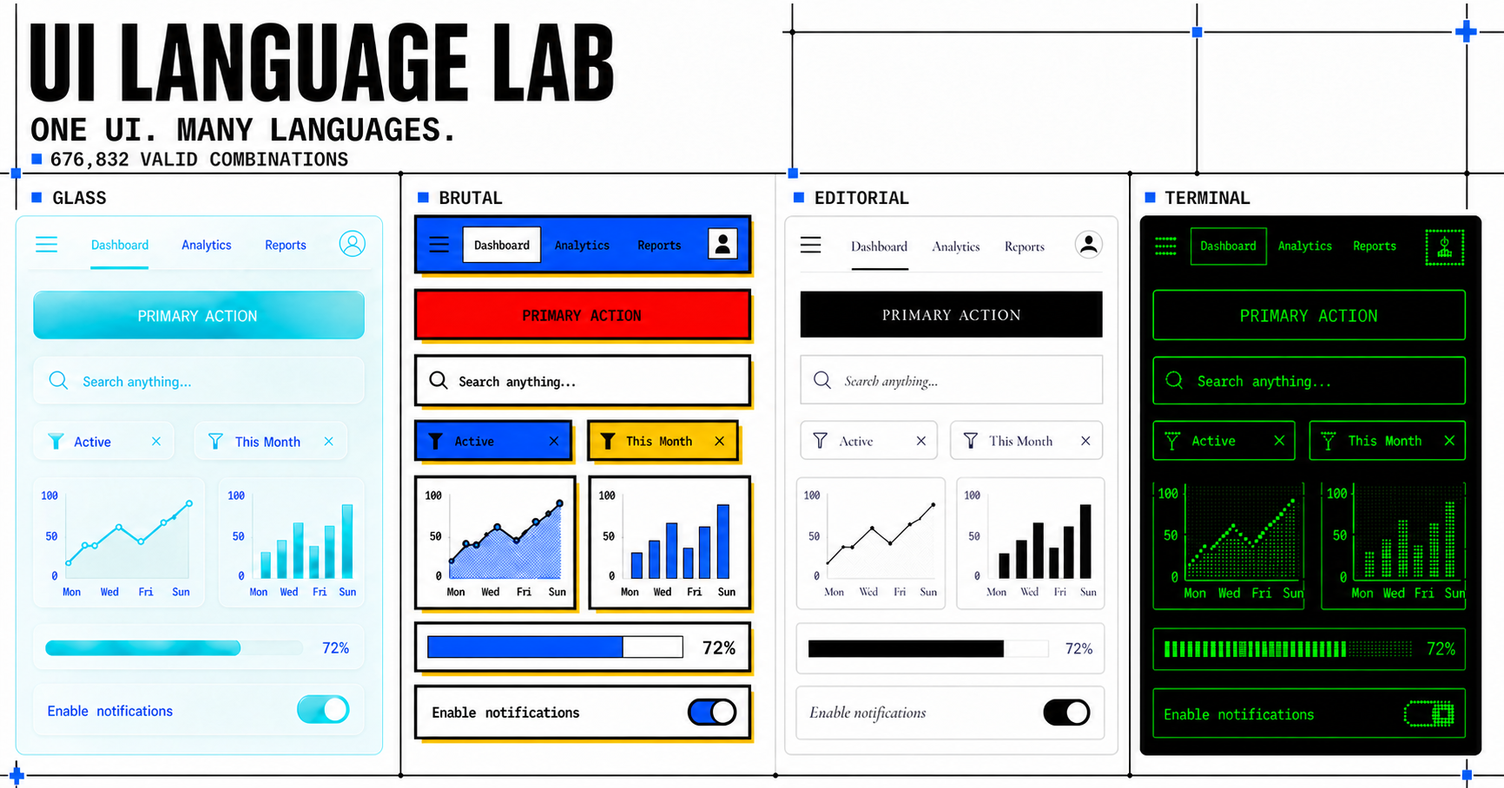
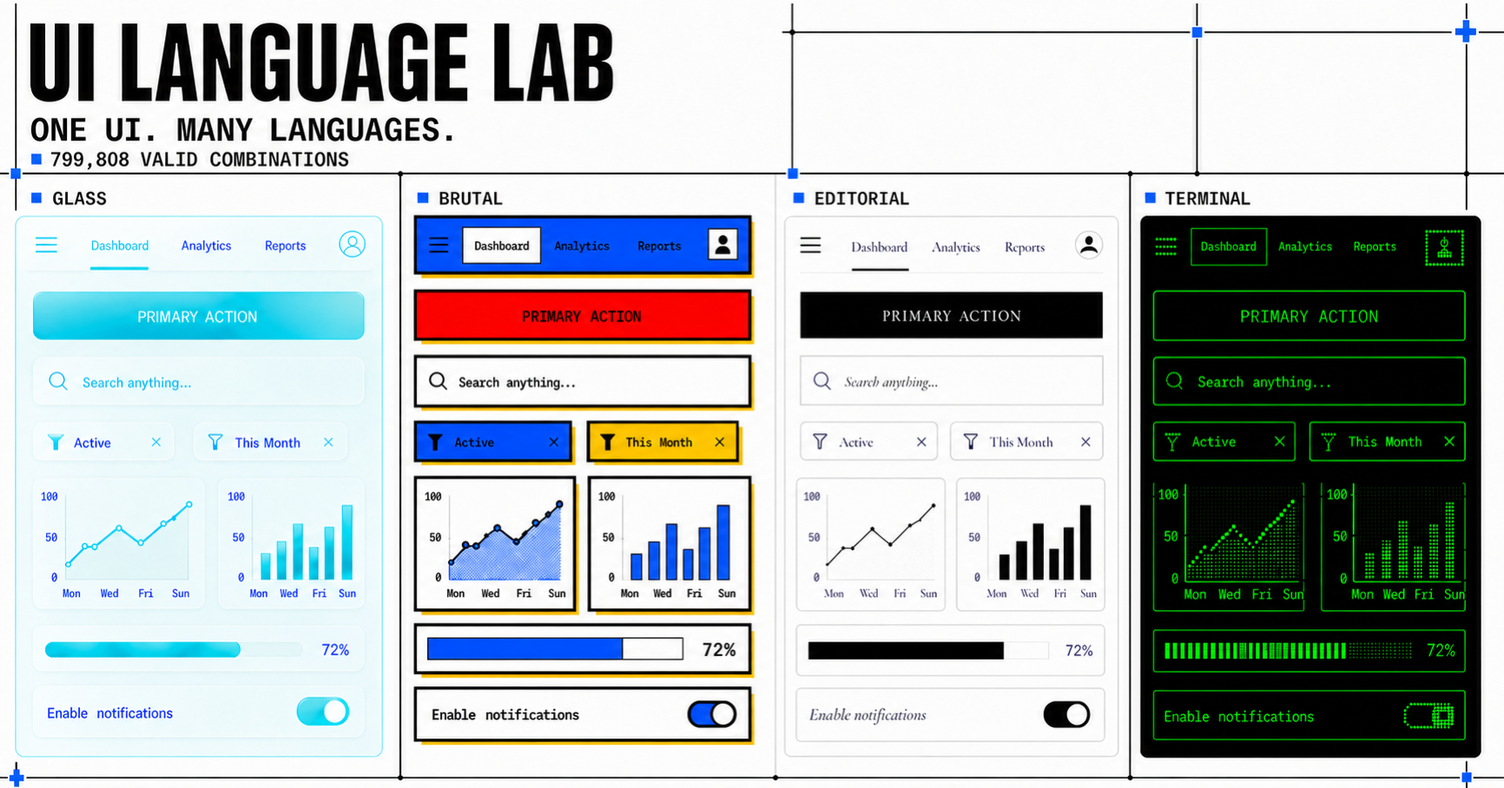
Improve floating controls and rail palettes

diff --git a/app/style-lab.css b/app/style-lab.css
@@ -55,16 +55,19 @@
 .site-header nav a svg { width:11px;height:11px; }
 .site-header nav a:hover { text-decoration: underline; text-underline-offset: 4px; }
 .language-control { position:relative; }
-.floating-language,.floating-utilities { position:fixed;bottom:16px;z-index:130;padding:6px;border:1px solid rgba(20,20,17,.21);border-radius:999px;background:rgba(250,249,245,.91);box-shadow:0 14px 38px rgba(24,24,20,.14),inset 0 1px rgba(255,255,255,.9);backdrop-filter:blur(22px) saturate(1.15); }
-.floating-language { right:16px; }
-.floating-utilities { right:92px;display:flex;align-items:center;gap:4px; }
+.floating-language,.floating-utilities { z-index:130;padding:6px;border:1px solid rgba(20,20,17,.21);background:rgba(250,249,245,.91);box-shadow:0 14px 38px rgba(24,24,20,.14),inset 0 1px rgba(255,255,255,.9);backdrop-filter:blur(22px) saturate(1.15); }
+.floating-language { position:fixed;right:16px;bottom:16px;border-radius:999px; }
+.floating-utilities { position:relative;display:grid;grid-template-columns:repeat(3,minmax(0,1fr));gap:4px;width:100%;margin-top:8px;border-radius:15px;pointer-events:auto; }
 .share-control { position:relative;display:grid; }
 .language-toggle { display:inline-flex;align-items:center;gap:7px;min-height:36px;padding:0 10px;border:1px solid #aaa79f;border-radius:999px;background:transparent;cursor:pointer; }
 .language-toggle:hover { color:white;border-color:#171714;background:#171714; }
 .language-toggle span { display:grid;place-items:center;line-height:1; }.language-toggle span svg { width:15px;height:15px; }.language-toggle b { font-size:9px;letter-spacing:.08em; }
-.utility-toggle { display:grid;width:36px;height:36px;place-items:center;padding:0;border:1px solid #aaa79f;border-radius:50%;background:transparent;cursor:pointer; }
+.utility-toggle { display:flex;width:100%;height:38px;align-items:center;justify-content:center;gap:6px;padding:0 7px;border:1px solid #aaa79f;border-radius:10px;background:rgba(255,255,255,.42);cursor:pointer; }
 .utility-toggle:hover,.utility-toggle[aria-expanded="true"] { color:white;border-color:#171714;background:#171714; }
 .utility-toggle svg { width:15px;height:15px; }
+.utility-toggle b { overflow:hidden;font-size:8px;letter-spacing:.035em;text-overflow:ellipsis;white-space:nowrap; }
+.page-jump-toggle { color:#fff;border-color:var(--lab-blue);background:var(--lab-blue); }
+.page-jump-toggle:hover { border-color:#1737a4;background:#1737a4; }
 .language-menu { position:absolute;right:0;bottom:calc(100% + 10px);z-index:150;display:grid;width:270px;padding:9px;border:1px solid rgba(20,20,17,.2);border-radius:15px;background:rgba(250,249,245,.98);box-shadow:0 18px 50px rgba(20,20,17,.18);backdrop-filter:blur(22px); }
 .language-menu>span { padding:8px 9px 11px;color:#77746c;font:8px ui-monospace,monospace;letter-spacing:.1em;text-transform:uppercase; }
 .language-menu>button { display:grid;grid-template-columns:36px 1fr auto;align-items:center;gap:9px;min-height:48px;padding:7px 9px;border:0;border-radius:10px;background:transparent;text-align:left;cursor:pointer; }
@@ -585,12 +588,15 @@
 
 .live-site[data-palette="mono"], .preset-mini[data-palette="mono"] { --site-bg:#e7e6e1;--site-surface:rgba(255,255,252,.84);--site-solid:#fafaf7;--site-ink:#151515;--site-muted:#6b6b66;--site-accent:#282828;--site-accent-2:#c8c8c0;--site-accent-3:#7a7a74;--site-line:rgba(0,0,0,.2); }
 .live-site[data-palette="pureWhite"], .preset-mini[data-palette="pureWhite"] { --site-bg:#ffffff;--site-surface:#ffffff;--site-solid:#ffffff;--site-ink:#111113;--site-muted:#71717a;--site-accent:#18181b;--site-accent-2:#f4f4f5;--site-accent-3:#d4d4d8;--site-line:rgba(17,17,19,.14); }
-.live-site[data-palette="enterpriseNavy"], .preset-mini[data-palette="enterpriseNavy"] { --site-bg:#f7f8fb;--site-surface:#f8f9fc;--site-solid:#ffffff;--site-ink:#16223b;--site-muted:#778097;--site-accent:#16294a;--site-accent-2:#e3e8f0;--site-accent-3:#60789b;--site-line:rgba(22,41,74,.15); }
-.live-site[data-palette="enterpriseNavy"] .sample-nav { color:#f7f9fc;border-color:rgba(255,255,255,.14);background:#16294a; }
-.live-site[data-palette="enterpriseNavy"] .sample-nav-cta { color:#16294a;background:#ffffff; }
-.live-site[data-palette="enterpriseNavy"] .sample-nav nav a { border-color:rgba(255,255,255,.18); }
-.preset-mini[data-palette="enterpriseNavy"] .mini-nav { margin:-4px -4px 0;padding:4px 8px;border:0;background:#16294a; }
-.preset-mini[data-palette="enterpriseNavy"] .mini-nav i,.preset-mini[data-palette="enterpriseNavy"] .mini-nav b { background:#ffffff; }
+.live-site[data-palette="enterpriseNavy"], .preset-mini[data-palette="enterpriseNavy"] { --site-rail:#16294a;--site-bg:#f7f8fb;--site-surface:#f8f9fc;--site-solid:#ffffff;--site-ink:#16223b;--site-muted:#778097;--site-accent:#16294a;--site-accent-2:#e3e8f0;--site-accent-3:#60789b;--site-line:rgba(22,41,74,.15); }
+.live-site[data-palette="enterpriseEvergreen"], .preset-mini[data-palette="enterpriseEvergreen"] { --site-rail:#193324;--site-bg:#f7faf8;--site-surface:#f9fbfa;--site-solid:#ffffff;--site-ink:#1a2f24;--site-muted:#64766c;--site-accent:#2e8367;--site-accent-2:#dbebde;--site-accent-3:#86b98e;--site-line:rgba(25,51,36,.15); }
+.live-site[data-palette="enterpriseBurgundy"], .preset-mini[data-palette="enterpriseBurgundy"] { --site-rail:#402731;--site-bg:#fbf8f9;--site-surface:#fcfafb;--site-solid:#ffffff;--site-ink:#321f27;--site-muted:#806b73;--site-accent:#8b4566;--site-accent-2:#f6e1e8;--site-accent-3:#e895b3;--site-line:rgba(64,39,49,.15); }
+.live-site[data-palette="enterpriseGraphite"], .preset-mini[data-palette="enterpriseGraphite"] { --site-rail:#2d2e2f;--site-bg:#f7f9fa;--site-surface:#fbfcfd;--site-solid:#ffffff;--site-ink:#1c1d1f;--site-muted:#71767a;--site-accent:#3d4551;--site-accent-2:#dfe1e2;--site-accent-3:#71767a;--site-line:rgba(45,46,47,.16); }
+.live-site:is([data-palette="enterpriseNavy"],[data-palette="enterpriseEvergreen"],[data-palette="enterpriseBurgundy"],[data-palette="enterpriseGraphite"]) .sample-nav { color:#fff;border-color:rgba(255,255,255,.14);background:var(--site-rail); }
+.live-site:is([data-palette="enterpriseNavy"],[data-palette="enterpriseEvergreen"],[data-palette="enterpriseBurgundy"],[data-palette="enterpriseGraphite"]) .sample-nav-cta { color:var(--site-rail);background:#fff; }
+.live-site:is([data-palette="enterpriseNavy"],[data-palette="enterpriseEvergreen"],[data-palette="enterpriseBurgundy"],[data-palette="enterpriseGraphite"]) .sample-nav nav a { border-color:rgba(255,255,255,.18); }
+.preset-mini:is([data-palette="enterpriseNavy"],[data-palette="enterpriseEvergreen"],[data-palette="enterpriseBurgundy"],[data-palette="enterpriseGraphite"]) .mini-nav { margin:-4px -4px 0;padding:4px 8px;border:0;background:var(--site-rail); }
+.preset-mini:is([data-palette="enterpriseNavy"],[data-palette="enterpriseEvergreen"],[data-palette="enterpriseBurgundy"],[data-palette="enterpriseGraphite"]) .mini-nav i,.preset-mini:is([data-palette="enterpriseNavy"],[data-palette="enterpriseEvergreen"],[data-palette="enterpriseBurgundy"],[data-palette="enterpriseGraphite"]) .mini-nav b { background:#fff; }
 .live-site[data-palette="primary"], .preset-mini[data-palette="primary"] { --site-bg:#fff2cc;--site-surface:#fffaf0;--site-solid:#fffaf0;--site-ink:#090909;--site-muted:#625d52;--site-accent:#064ff1;--site-accent-2:#ffd400;--site-accent-3:#ff5147;--site-line:rgba(0,0,0,.22); }
 .live-site[data-palette="cobalt"], .preset-mini[data-palette="cobalt"] { --site-bg:#e2e8f5;--site-surface:rgba(249,251,255,.8);--site-solid:#f7f9ff;--site-ink:#131d3d;--site-muted:#66708d;--site-accent:#315cff;--site-accent-2:#b8c7ff;--site-accent-3:#9a6cff;--site-line:rgba(24,44,103,.17); }
 .live-site[data-palette="citrus"], .preset-mini[data-palette="citrus"] { --site-bg:#f1f7ce;--site-surface:rgba(252,255,236,.84);--site-solid:#fbffef;--site-ink:#24300e;--site-muted:#6b7554;--site-accent:#72b900;--site-accent-2:#f4df32;--site-accent-3:#ff982f;--site-line:rgba(48,73,10,.18); }
@@ -991,7 +997,10 @@
   .intro { grid-template-columns:1fr; }.intro h1 { align-self:center; }.intro-side { display:flex;justify-content:space-between;gap:40px;margin-top:60px;padding-left:0; }.intro-side>p { margin:0; }
   .mixer-anchor { top:auto;right:10px;bottom:10px;left:10px;width:auto;height:auto;padding:0;transform:none; }.floating-mixer { flex-direction:row;min-height:68px;border-radius:15px; }.axis-controls { display:flex;overflow-x:auto;scrollbar-width:none; }.axis-controls>button { flex:0 0 122px;border-right:1px solid rgba(20,20,17,.1);border-bottom:0; }.mixer-popover { top:auto;right:0;bottom:calc(100% + 8px);left:0;width:auto; }
   .floating-language { right:10px;bottom:86px; }
-  .floating-utilities { right:88px;bottom:86px; }
+  .floating-utilities { position:absolute;right:70px;bottom:calc(100% + 8px);display:flex;width:auto;margin:0;border-radius:999px; }
+  .utility-toggle { width:36px;padding:0;border-radius:50%;background:transparent; }
+  .utility-toggle b { display:none; }
+  .page-jump-toggle { background:var(--lab-blue); }
   .popover-options { grid-template-columns:repeat(2,minmax(0,1fr)); }
   .live-site[data-nav="left"] { display:block; }
   .live-site[data-nav="left"]>.sample-nav { position:relative;top:auto;display:grid;grid-template-columns:1fr auto;align-items:center;width:calc(100% - clamp(30px,5vw,90px));height:auto;min-height:78px;margin:clamp(28px,3.5vw,58px) auto 0;padding:0 18px 0 22px;border:var(--site-border);border-radius:var(--site-radius); }
@@ -1015,7 +1024,7 @@
   .site-header { min-height:64px;padding-inline:17px; }.site-header nav { display:none; }.wordmark b { font-size:10px; }
   .intro { min-height:560px;padding:32px 18px 72px; }.intro h1 { margin-top:52px;font-size:clamp(45px,13vw,70px); }.intro-side { display:block;margin-top:38px; }.intro-side>p { margin-bottom:22px;font-size:14px; }.explore-cta { margin-bottom:24px; }
   .mixer-anchor { top:auto;right:7px;bottom:7px;left:7px;height:auto; }.floating-mixer { min-height:61px;border-radius:13px; }.axis-controls>button { flex-basis:105px;padding:9px 24px 9px 10px; }.axis-controls b { font-size:9px; }
-  .floating-language { right:7px;bottom:76px;padding:5px; }.floating-utilities { right:82px;bottom:76px;padding:5px; }.language-menu { width:min(270px,calc(100vw - 14px)); }
+  .floating-language { right:7px;bottom:76px;padding:5px; }.floating-utilities { right:66px;bottom:calc(100% + 8px);padding:5px; }.language-menu { width:min(270px,calc(100vw - 14px)); }
   .mixer-popover { top:auto;bottom:calc(100% + 6px);padding:12px;border-radius:13px; }.share-popover { right:-75px;bottom:calc(100% + 8px);width:calc(100vw - 14px);padding:12px;border-radius:13px; }.popover-options { grid-template-columns:1fr; }.popover-options>button { min-height:58px; }.mixer-popover>header small { display:none; }
   .canvas-label { width:calc(100% - 28px);margin-bottom:10px; }.canvas-label b { display:none; }
   .sample-nav,.sample-main { width:calc(100% - 28px); }.sample-nav { min-height:62px;margin-top:18px;padding:0 10px 0 13px; }.sample-brand b { font-size:9px; }.sample-mark { width:27px;height:27px; }.sample-nav-cta { min-height:39px;padding:0 11px;font-size:8px; }.sample-nav-cta span { margin-left:6px; }

diff --git a/app/StyleLab.tsx b/app/StyleLab.tsx
@@ -74,6 +74,12 @@ const labCopy = {
     mixer: "Design combination mixer",
     random: "Create a random compatible combination",
     share: "Share the current combination",
+    randomShort: "Random",
+    shareShort: "Share",
+    presetsJump: "Presets",
+    presetsJumpLabel: "Jump to curated presets",
+    canvasJump: "Canvas",
+    canvasJumpLabel: "Return to the live canvas",
     shareTitle: "Choose a share view",
     shareIntro: "Send the full lab for exploration or a clean reference page for agents and design handoff.",
     labLink: "Copy lab link",
@@ -95,7 +101,7 @@ const labCopy = {
     incompatible: (name: string) => `Not compatible with ${name}`,
     unavailable: (name: string) => `This combination is unavailable for ${name}.`,
     canvas: "FULL-PAGE LIVE CANVAS",
-    presetKicker: "CURATED STARTING POINTS · 30",
+    presetKicker: "CURATED STARTING POINTS",
     presetTitle: ["Switch the whole page", "in one move."],
     presetIntro: "Every preset applies a coherent visual system to the same Field Notes content. Start here, then adjust one layer at a time in the floating mixer.",
     filters: "Preset filters",
@@ -117,6 +123,12 @@ const labCopy = {
     mixer: "디자인 조합 믹서",
     random: "호환되는 무작위 조합 만들기",
     share: "현재 조합 공유",
+    randomShort: "무작위",
+    shareShort: "공유",
+    presetsJump: "프리셋",
+    presetsJumpLabel: "추천 프리셋으로 이동",
+    canvasJump: "캔버스",
+    canvasJumpLabel: "라이브 캔버스로 돌아가기",
     shareTitle: "공유 화면 선택",
     shareIntro: "직접 탐색할 수 있는 전체 실험실 또는 에이전트와 디자인 전달에 적합한 레퍼런스 화면을 공유하세요.",
     labLink: "실험실 링크 복사",
@@ -138,7 +150,7 @@ const labCopy = {
     incompatible: (name: string) => `${name}과 호환되지 않음`,
     unavailable: (name: string) => `${name}에서는 사용할 수 없는 조합입니다.`,
     canvas: "전체 페이지 라이브 캔버스",
-    presetKicker: "추천 시작점 · 30",
+    presetKicker: "추천 시작점",
     presetTitle: ["페이지의 분위기를", "한 번에 전환하세요."],
     presetIntro: "각 프리셋은 같은 Field Notes 콘텐츠에 일관된 시각 시스템을 적용합니다. 선택한 뒤 플로팅 믹서에서 한 층씩 바꿔 보세요.",
     filters: "프리셋 필터",
@@ -364,7 +376,10 @@ const presetLabelsEn: Record<string, string> = {
   "paper-report": "A printed annual report",
   "clay-candy": "A soft, dimensional onboarding",
   "liquid-spatial": "Floating glass controls",
-  "corporate-clean": "A clear editorial landing page",
+  "corporate-clean": "An enterprise UI with a navy rail and white canvas",
+  "evergreen-workspace": "Calm operations with an evergreen rail and frost canvas",
+  "burgundy-workspace": "A warm service UI with a burgundy rail and pearl canvas",
+  "graphite-workspace": "Neutral data operations with a graphite rail and snow canvas",
   "vapor-grid": "A dreamy retro travel page",
   "organic-calm": "Wellness with quiet data",
   "citrus-split": "Energetic commerce",
@@ -617,6 +632,7 @@ export function StyleLab() {
   const [languageOpen, setLanguageOpen] = useState(false);
   const [notice, setNotice] = useState("");
   const [presetFilter, setPresetFilter] = useState("All");
+  const [presetSectionVisible, setPresetSectionVisible] = useState(false);
   const [ready, setReady] = useState(false);
   const mixerRef = useRef<HTMLElement>(null);
   const languageRef = useRef<HTMLDivElement>(null);
@@ -727,6 +743,17 @@ export function StyleLab() {
   }, [languageOpen]);
 
   useEffect(() => {
+    const presetSection = document.getElementById("presets");
+    if (!presetSection) return;
+    const observer = new IntersectionObserver(
+      ([entry]) => setPresetSectionVisible(entry.isIntersecting),
+      { rootMargin: "-18% 0px -62%", threshold: 0 },
+    );
+    observer.observe(presetSection);
+    return () => observer.disconnect();
+  }, []);
+
+  useEffect(() => {
     function onKeyDown(event: globalThis.KeyboardEvent) {
       const target = event.target as HTMLElement | null;
       if (event.key === "Escape") {
@@ -803,6 +830,13 @@ export function StyleLab() {
     document.getElementById("live-site")?.scrollIntoView({ behavior: "smooth" });
   }
 
+  function jumpBetweenCanvasAndPresets() {
+    const targetId = presetSectionVisible ? "live-site" : "presets";
+    document.getElementById(targetId)?.scrollIntoView({ behavior: selection.motion === "quiet" ? "auto" : "smooth" });
+    setActiveAxis(null);
+    setShareOpen(false);
+  }
+
   const aestheticName = language === "en" ? getOption("aesthetic", selection.aesthetic).en : getOption("aesthetic", selection.aesthetic).ko;
   const activeAxisIndex = activeAxis
     ? String(visibleAxisKeys.indexOf(activeAxis) + 1).padStart(2, "0")
@@ -832,23 +866,6 @@ export function StyleLab() {
             <button type="button" className={language === "ko" && copyMode === "mixed" ? "selected" : ""} onClick={() => chooseLanguage("ko", "mixed")}><b>한+</b><span>{t.koreanMixedMode}</span><em aria-hidden="true">{language === "ko" && copyMode === "mixed" ? <Check /> : <Circle />}</em></button>
           </div>
         )}
-      </div>
-
-      <div className="floating-utilities" ref={utilityRef}>
-        <button className="utility-toggle" type="button" onClick={randomize} aria-label={t.random} title={`${t.random} (R)`}><Shuffle aria-hidden="true" /></button>
-        <div className="share-control">
-          <button className="utility-toggle" type="button" onClick={() => { setActiveAxis(null); setShareOpen((current) => !current); }} aria-expanded={shareOpen} aria-label={t.share} title={t.share}><Share2 aria-hidden="true" /></button>
-          {shareOpen && (
-            <div className="share-popover" role="dialog" aria-label={t.shareTitle}>
-              <header><div><span aria-hidden="true"><Share2 /></span><b>{t.shareTitle}</b></div><button type="button" onClick={() => setShareOpen(false)} aria-label={t.close}><X aria-hidden="true" /></button></header>
-              <p>{t.shareIntro}</p>
-              <div>
-                <button type="button" onClick={() => share("lab")}><span><b>{t.labLink}</b><small>{t.labLinkNote}</small></span><em>LAB <ExternalLink aria-hidden="true" /></em></button>
-                <button type="button" onClick={() => share("reference")}><span><b>{t.referenceLink}</b><small>{t.referenceLinkNote}</small></span><em>REF <ExternalLink aria-hidden="true" /></em></button>
-              </div>
-            </div>
-          )}
-        </div>
       </div>
 
       <section className="intro" id="top">
@@ -891,13 +908,32 @@ export function StyleLab() {
           )}
 
         </section>
+        <div className="floating-utilities" ref={utilityRef} aria-label={language === "en" ? "Quick actions" : "빠른 동작"}>
+          <button className="utility-toggle page-jump-toggle" type="button" onClick={jumpBetweenCanvasAndPresets} aria-label={presetSectionVisible ? t.canvasJumpLabel : t.presetsJumpLabel} title={presetSectionVisible ? t.canvasJumpLabel : t.presetsJumpLabel}>
+            {presetSectionVisible ? <ArrowUp aria-hidden="true" /> : <ArrowDown aria-hidden="true" />}<b>{presetSectionVisible ? t.canvasJump : t.presetsJump}</b>
+          </button>
+          <button className="utility-toggle" type="button" onClick={randomize} aria-label={t.random} title={`${t.random} (R)`}><Shuffle aria-hidden="true" /><b>{t.randomShort}</b></button>
+          <div className="share-control">
+            <button className="utility-toggle" type="button" onClick={() => { setActiveAxis(null); setShareOpen((current) => !current); }} aria-expanded={shareOpen} aria-label={t.share} title={t.share}><Share2 aria-hidden="true" /><b>{t.shareShort}</b></button>
+            {shareOpen && (
+              <div className="share-popover" role="dialog" aria-label={t.shareTitle}>
+                <header><div><span aria-hidden="true"><Share2 /></span><b>{t.shareTitle}</b></div><button type="button" onClick={() => setShareOpen(false)} aria-label={t.close}><X aria-hidden="true" /></button></header>
+                <p>{t.shareIntro}</p>
+                <div>
+                  <button type="button" onClick={() => share("lab")}><span><b>{t.labLink}</b><small>{t.labLinkNote}</small></span><em>LAB <ExternalLink aria-hidden="true" /></em></button>
+                  <button type="button" onClick={() => share("reference")}><span><b>{t.referenceLink}</b><small>{t.referenceLinkNote}</small></span><em>REF <ExternalLink aria-hidden="true" /></em></button>
+                </div>
+              </div>
+            )}
+          </div>
+        </div>
       </div>
 
       <div className="canvas-label"><span>{t.canvas}</span><b>{visibleAxisKeys.map((axis) => language === "en" ? getOption(axis, selection[axis]).en : getOption(axis, selection[axis]).ko).join(" × ")}</b></div>
       <FieldNotesSite selection={selection} language={language} copyMode={copyMode} />
 
       <section className="preset-section" id="presets">
-        <header><div><span>{t.presetKicker}</span><h2>{t.presetTitle[0]}<br />{t.presetTitle[1]}</h2></div><p>{t.presetIntro}</p></header>
+        <header><div><span>{t.presetKicker} · {presets.length}</span><h2>{t.presetTitle[0]}<br />{t.presetTitle[1]}</h2></div><p>{t.presetIntro}</p></header>
         <div className="preset-filters" aria-label={t.filters}>{filters.map((filter) => <button className={presetFilter === filter ? "active" : ""} type="button" key={filter} onClick={() => setPresetFilter(filter)}>{filter === "All" ? t.all : filter}</button>)}</div>
         <div className="preset-grid">
           {visiblePresets.map((preset, index) => (

diff --git a/app/style-data.ts b/app/style-data.ts
@@ -113,6 +113,9 @@ export const axes: Record<AxisKey, Option[]> = {
     { id: "mono", ko: "모노", en: "Monochrome", note: "black, white, neutral grey" },
     { id: "pureWhite", ko: "퓨어 화이트", en: "Pure White", note: "white surface와 near-black typography" },
     { id: "enterpriseNavy", ko: "엔터프라이즈 네이비", en: "Enterprise Navy", note: "navy navigation과 porcelain-white canvas의 강한 대비" },
+    { id: "enterpriseEvergreen", ko: "엔터프라이즈 에버그린", en: "Enterprise Evergreen", note: "evergreen navigation과 frost-white canvas의 차분한 대비" },
+    { id: "enterpriseBurgundy", ko: "엔터프라이즈 버건디", en: "Enterprise Burgundy", note: "burgundy navigation과 pearl-white canvas의 따뜻한 대비" },
+    { id: "enterpriseGraphite", ko: "엔터프라이즈 그래파이트", en: "Enterprise Graphite", note: "graphite navigation과 snow-white canvas의 중립적 대비" },
     { id: "primary", ko: "프라이머리", en: "Primary", note: "red, blue, yellow" },
     { id: "citrus", ko: "시트러스", en: "Citrus", note: "lime, tangerine, yellow" },
     { id: "candy", ko: "캔디", en: "Candy", note: "pink, lavender, cyan" },
@@ -198,7 +201,7 @@ export const aestheticRules: Record<string, AestheticRule> = {
       type: ["grotesk", "humanist", "serif", "mono"],
       koType: ["plex", "pretendard", "suit", "noto", "spoqa", "nanum", "gowun", "jua", "coding"],
       fontMode: ["split", "koUnified"],
-      palette: ["cobalt", "mono", "pureWhite", "enterpriseNavy", "noir", "forest", "aurora", "aqua", "bentoPastel", "nordic", "materialDynamic", "fluent"],
+      palette: ["cobalt", "mono", "pureWhite", "enterpriseNavy", "enterpriseEvergreen", "enterpriseBurgundy", "enterpriseGraphite", "noir", "forest", "aurora", "aqua", "bentoPastel", "nordic", "materialDynamic", "fluent"],
       motion: ["quiet", "subtle"],
     },
   },
@@ -408,7 +411,7 @@ export const aestheticRules: Record<string, AestheticRule> = {
       type: ["grotesk", "humanist", "rounded"],
       koType: ["plex", "pretendard", "suit", "noto", "spoqa", "jua"],
       fontMode: ["split", "koUnified"],
-      palette: ["materialDynamic", "pureWhite", "enterpriseNavy", "cobalt", "candy", "forest", "aqua"],
+      palette: ["materialDynamic", "pureWhite", "enterpriseNavy", "enterpriseEvergreen", "enterpriseBurgundy", "enterpriseGraphite", "cobalt", "candy", "forest", "aqua"],
       motion: ["subtle", "kinetic"],
     },
   },
@@ -436,7 +439,7 @@ export const aestheticRules: Record<string, AestheticRule> = {
       type: ["grotesk", "humanist"],
       koType: ["plex", "pretendard", "suit", "noto", "spoqa", "nanum"],
       fontMode: ["split", "koUnified"],
-      palette: ["fluent", "pureWhite", "enterpriseNavy", "cobalt", "mono"],
+      palette: ["fluent", "pureWhite", "enterpriseNavy", "enterpriseEvergreen", "enterpriseBurgundy", "enterpriseGraphite", "cobalt", "mono"],
       motion: ["quiet", "subtle"],
     },
   },
@@ -464,7 +467,7 @@ export const aestheticRules: Record<string, AestheticRule> = {
       type: ["grotesk", "mono"],
       koType: ["plex", "pretendard", "suit", "noto", "coding"],
       fontMode: ["split", "koUnified"],
-      palette: ["carbon", "pureWhite", "enterpriseNavy", "mono"],
+      palette: ["carbon", "pureWhite", "enterpriseNavy", "enterpriseEvergreen", "enterpriseBurgundy", "enterpriseGraphite", "mono"],
       motion: ["quiet", "subtle"],
     },
   },
@@ -492,7 +495,7 @@ export const aestheticRules: Record<string, AestheticRule> = {
       type: ["grotesk", "mono"],
       koType: ["plex", "pretendard", "suit", "noto", "spoqa", "nanum", "coding"],
       fontMode: ["split", "koUnified"],
-      palette: ["pureWhite", "enterpriseNavy", "mono"],
+      palette: ["pureWhite", "enterpriseNavy", "enterpriseEvergreen", "enterpriseBurgundy", "enterpriseGraphite", "mono"],
       motion: ["quiet", "subtle"],
     },
   },
@@ -546,6 +549,9 @@ export const presets: Preset[] = [
   { id: "clay-candy", name: "Candy Clay", label: "말랑한 onboarding", category: "Morphism", selection: { aesthetic: "organic", surface: "clay", layout: "cards", nav: "left", navStyle: "both", type: "rounded", koType: "jua", fontMode: "koUnified", palette: "candy", motion: "kinetic" } },
   { id: "liquid-spatial", name: "Liquid Spatial", label: "floating glass controls", category: "Contemporary", selection: { aesthetic: "minimal", surface: "liquid", layout: "split", nav: "top", navStyle: "icon", type: "humanist", koType: "plex", fontMode: "split", palette: "aurora", motion: "subtle" } },
   { id: "corporate-clean", name: "Navy Workspace", label: "navy rail과 white canvas의 enterprise UI", category: "System", selection: { aesthetic: "minimal", surface: "material", layout: "landing", nav: "left", navStyle: "text", type: "grotesk", koType: "plex", fontMode: "split", palette: "enterpriseNavy", motion: "quiet" } },
+  { id: "evergreen-workspace", name: "Evergreen Workspace", label: "evergreen rail과 frost canvas의 차분한 operations UI", category: "System", selection: { aesthetic: "fluent2", surface: "flat", layout: "masterDetail", nav: "left", navStyle: "both", type: "humanist", koType: "suit", fontMode: "split", palette: "enterpriseEvergreen", motion: "quiet" } },
+  { id: "burgundy-workspace", name: "Burgundy Workspace", label: "burgundy rail과 pearl canvas의 따뜻한 service UI", category: "System", selection: { aesthetic: "material3", surface: "material", layout: "cards", nav: "left", navStyle: "text", type: "grotesk", koType: "pretendard", fontMode: "split", palette: "enterpriseBurgundy", motion: "subtle" } },
+  { id: "graphite-workspace", name: "Graphite Workspace", label: "graphite rail과 snow canvas의 중립적 data UI", category: "System", selection: { aesthetic: "carbon", surface: "flat", layout: "dashboard", nav: "left", navStyle: "both", type: "mono", koType: "plex", fontMode: "split", palette: "enterpriseGraphite", motion: "quiet" } },
   { id: "vapor-grid", name: "Vapor Grid", label: "dreamy retro travel page", category: "Retro", selection: { aesthetic: "vaporwave", surface: "glass", layout: "poster", nav: "top", navStyle: "icon", type: "mono", koType: "coding", fontMode: "split", palette: "candy", motion: "kinetic" } },
   { id: "organic-calm", name: "Organic Calm", label: "wellness와 quiet data", category: "Nature", selection: { aesthetic: "organic", surface: "paper", layout: "bento", nav: "left", navStyle: "both", type: "humanist", koType: "gowun", fontMode: "koUnified", palette: "forest", motion: "quiet" } },
   { id: "citrus-split", name: "Citrus Split", label: "energetic commerce", category: "Expressive", selection: { aesthetic: "swiss", surface: "flat", layout: "split", nav: "top", navStyle: "text", type: "condensed", koType: "blackhan", fontMode: "split", palette: "citrus", motion: "subtle" } },
@@ -645,6 +651,9 @@ const optionNotesEn: Record<AxisKey, Record<string, string>> = {
     mono: "Black, white, and neutral grey",
     pureWhite: "White surfaces with near-black typography",
     enterpriseNavy: "Navy navigation against a porcelain-white canvas",
+    enterpriseEvergreen: "Evergreen navigation against a frost-white canvas",
+    enterpriseBurgundy: "Burgundy navigation against a pearl-white canvas",
+    enterpriseGraphite: "Graphite navigation against a snow-white canvas",
     primary: "Red, blue, and yellow",
     citrus: "Lime, tangerine, and yellow",
     candy: "Pink, lavender, and cyan",

diff --git a/app/layout.tsx b/app/layout.tsx
@@ -10,7 +10,7 @@ export const metadata: Metadata = {
   icons: { icon: "/favicon.svg" },
   openGraph: {
     title: "UI Language Lab",
-    description: "One interface, many design languages. Explore up to 676,832 aesthetically compatible full-page combinations.",
+    description: "One interface, many design languages. Explore up to 799,808 aesthetically compatible full-page combinations.",
     type: "website",
     url: "https://tangerooo.github.io/ui-style-lab/",
     images: [{ url: "/ui-style-lab/og.png", width: 1732, height: 908, alt: "UI Language Lab — the same component kit in Glass, Brutal, Editorial, and Terminal styles" }],
@@ -18,7 +18,7 @@ export const metadata: Metadata = {
   twitter: {
     card: "summary_large_image",
     title: "UI Language Lab",
-    description: "One interface, many design languages. Explore up to 676,832 aesthetically compatible full-page combinations.",
+    description: "One interface, many design languages. Explore up to 799,808 aesthetically compatible full-page combinations.",
     images: ["/ui-style-lab/og.png"],
   },
 };

diff --git a/index.html b/index.html
@@ -7,7 +7,7 @@
     <meta name="theme-color" content="#f0eee8" />
     <meta name="description" content="Mix complete interface systems across English, Korean-only, and Korean + English typography modes, then share an agent-ready reference view." />
     <meta property="og:title" content="UI Language Lab" />
-    <meta property="og:description" content="One interface, many design languages. Explore up to 676,832 aesthetically compatible full-page combinations." />
+    <meta property="og:description" content="One interface, many design languages. Explore up to 799,808 aesthetically compatible full-page combinations." />
     <meta property="og:type" content="website" />
     <meta property="og:image" content="./og.png" />
     <title>UI Language Lab</title>

diff --git a/README.md b/README.md
@@ -20,10 +20,10 @@ English is the default interface language. A detached floating language control 
 | Korean type | 10 | IBM Plex Sans KR, Pretendard, SUIT, Noto Sans KR, Spoqa Han Sans Neo, Nanum Gothic, Gowun Dodum, Jua, Nanum Gothic Coding, Black Han Sans |
 | Latin type | 8 | Grotesk, humanist, serif, mono, rounded, condensed, slab, pixel |
 | Type binding | 2 | Pair Latin and Korean faces by script, or use the selected Korean face for both scripts |
-| Palette | 23 | Includes Enterprise Navy, Pure White, and native Material, Fluent, Carbon, and shadcn/ui light/dark token families |
+| Palette | 26 | Includes a four-color Enterprise Rail family, Pure White, and native Material, Fluent, Carbon, and shadcn/ui light/dark token families |
 | Motion | 3 | Quiet, subtle, kinetic |
 
-The lab exposes a different number of visually distinct combinations for each content mode: **66,700** in English, **151,624** in Korean-only, and **676,832** in Korean + English. This is not the unrestricted Cartesian product: the selected base aesthetic controls which values are valid in every dependent layer, and Latin type is not counted when Korean Unified makes it visually irrelevant. Incompatible values remain visible but disabled.
+The lab exposes a different number of visually distinct combinations for each content mode: **78,388** in English, **179,800** in Korean-only, and **799,808** in Korean + English. This is not the unrestricted Cartesian product: the selected base aesthetic controls which values are valid in every dependent layer, and Latin type is not counted when Korean Unified makes it visually irrelevant. Incompatible values remain visible but disabled.
 
 The added options were deliberately curated from the broader research list:
 
@@ -33,7 +33,9 @@ The added options were deliberately curated from the broader research list:
 
 Broader concepts such as Pop Art, Punk/Zine, Spatial UI, Polaris, and GOV.UK remain research candidates rather than selectable base aesthetics. They either overlap an existing axis, require a different interaction model, or need domain-specific content before the full-page comparison would be honest.
 
-`Bento Grid` is modeled as a layout pattern, not a governing aesthetic. The `Bento Pastel` palette supplies the familiar white-card, navy, cobalt, coral, and mint product-dashboard skin while the base aesthetic still owns typography, geometry, and interaction rules. `Pure White` is a separate high-key palette: the canvas and cards stay white while near-black type, neutral borders, and restrained accents preserve hierarchy. `Enterprise Navy` models the common dark-navigation/light-canvas product pattern with a `#16294A` rail, porcelain-white surfaces, cool grey borders, and restrained slate data accents; it is enabled only for compatible light system aesthetics.
+`Bento Grid` is modeled as a layout pattern, not a governing aesthetic. The `Bento Pastel` palette supplies the familiar white-card, navy, cobalt, coral, and mint product-dashboard skin while the base aesthetic still owns typography, geometry, and interaction rules. `Pure White` is a separate high-key palette: the canvas and cards stay white while near-black type, neutral borders, and restrained accents preserve hierarchy.
+
+The `Enterprise Rail` family models the common dark-navigation/light-canvas product pattern. It now includes Navy + Porcelain (`#16294A`), Evergreen + Frost (`#193324`), Burgundy + Pearl (`#402731`), and Graphite + Snow (`#2D2E2F`). The four rail colors retain at least a 13.5:1 contrast against white navigation text. They are treated as role-based palette variants—not new aesthetics—and are enabled only for Minimal, Material 3, Fluent 2, Carbon, and shadcn/ui light systems. The role structure follows the background/solid/text separation described by [Radix Colors](https://www.radix-ui.com/colors/docs/palette-composition/understanding-the-scale), while hue grades and contrast selection were checked against [USWDS color guidance](https://designsystem.digital.gov/design-tokens/color/overview/) and [WCAG 2.2 contrast minimums](https://www.w3.org/TR/WCAG22/#contrast-minimum).
 
 The repeated dot matrix that previously appeared behind every canvas was an implementation artifact, not a UI standard. The global `radial-gradient` texture has been removed. Texture is now opt-in: E-ink keeps a deliberate pixel-like grain, while Acrylic and Digital Paper use non-dot material treatments. High-density phone displays no longer make an unintended common pattern appear across unrelated aesthetics.
 
@@ -68,7 +70,7 @@ The Share menu creates two state-complete URLs:
 
 Both links preserve the aesthetic combination, language, Korean content mode, and typography binding in the URL.
 
-Randomize and Share are detached floating actions beside the language control. The right-side mixer is reserved for layer selection; on narrow screens all floating controls sit above the bottom mixer without overlapping it.
+Randomize and Share remain a separate floating action group, but on desktop that group sits directly below the right-side mixer so the related controls stay in one attention zone. A contextual `Presets ↕ Canvas` action provides one-touch travel between the live page and curated presets after switching a whole-page style. The language control remains detached. On narrow screens all quick actions sit above the bottom mixer without overlapping it.
 
 ## Compatibility model
 

diff --git a/AGENTS.md b/AGENTS.md
@@ -130,7 +130,8 @@ sum(
 
 - option dialog는 outside click과 `Escape`로 닫혀야 한다.
 - language menu와 share dialog도 outside click과 `Escape`로 닫혀야 한다.
-- language, randomize, share control은 header navigation이나 combination mixer에 합치지 않고 독립 floating control group으로 유지한다. desktop에서는 우측 panel과 분리하고, narrow viewport에서는 bottom mixer 위로 이동해 겹침을 피한다.
+- language control은 header navigation과 combination mixer에서 분리된 floating control로 유지한다. randomize, share, canvas/preset jump는 별도의 quick-action group으로 유지하되 desktop에서는 우측 mixer 바로 아래에 간격을 두고 정렬해 관련 조작이 한 attention zone에 머물게 한다. narrow viewport에서는 bottom mixer 위로 이동해 겹침을 피한다.
+- whole-page preset을 적용해 live canvas로 이동한 뒤 긴 역방향 scroll을 강제하지 않는다. contextual canvas/preset jump처럼 keyboard-accessible한 원터치 왕복 동선을 유지한다.
 - reference share URL은 `view=reference`를 포함하고 mixer/preset 없이 live canvas만 렌더링해야 한다.
 - disabled option에는 `disabled`, reason text, accessible title을 유지한다.
 - icon-only navigation에는 `aria-label`과 visually hidden text를 유지한다.
